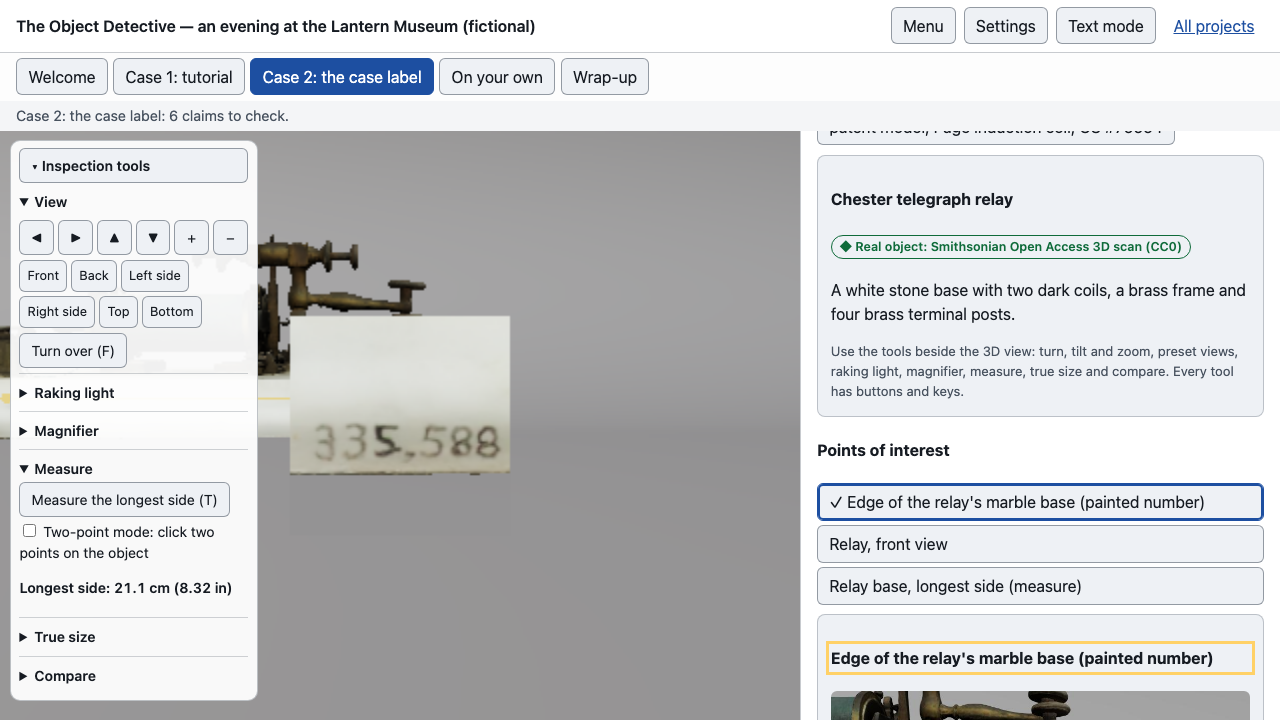
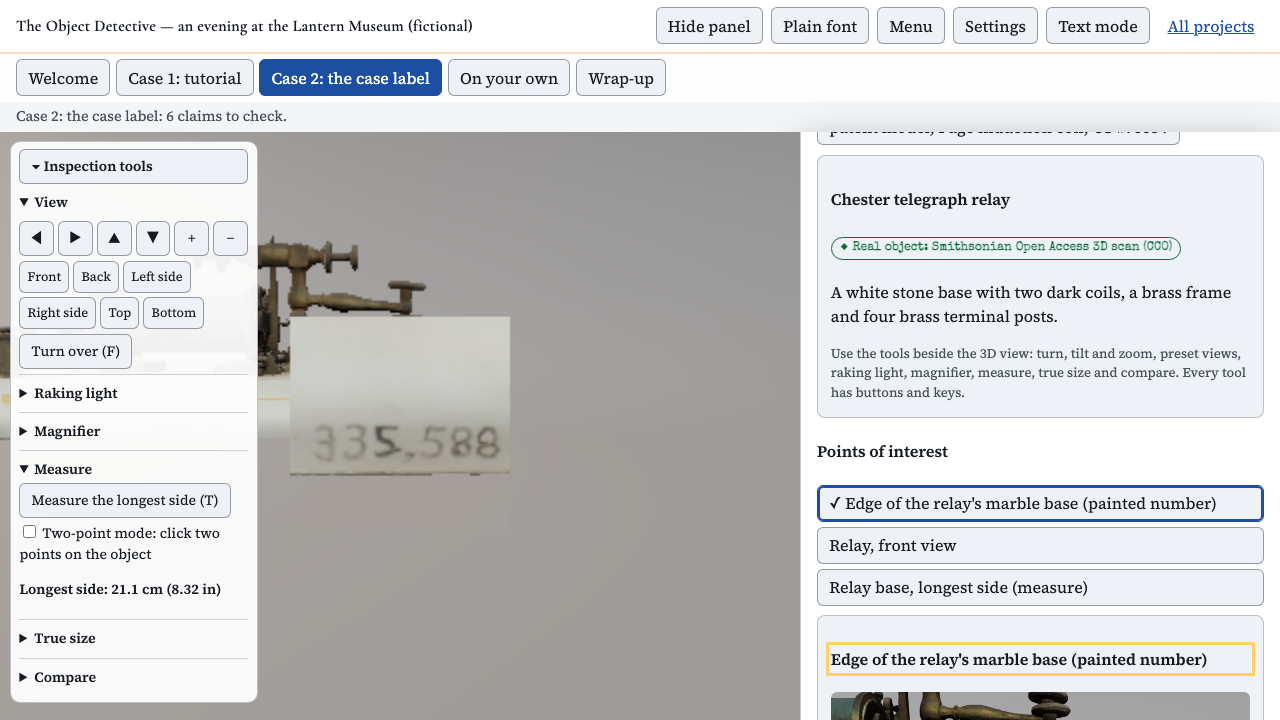
release(v2): 2.0.0 version bump, poster re-rendered from the v2 gallery scene (blank-frame detection + retry), release docs

diff --git a/README.md b/README.md
@@ -2,17 +2,18 @@
 
 # The Object Detective
 
-**Play now:** https://immersive-learning-showcase.vercel.app/play/object-detective/ (pending deployment: available once v1.0.0 is pinned in the showcase)
+**Play now:** https://immersive-learning-showcase.vercel.app/play/object-detective/ (pending deployment: available once v2.0.0 is pinned in the showcase)
 
-A draft museum label makes bold claims. You examine **real Smithsonian 3D scans** under raking light, magnify and measure them, corroborate them with the catalog records, and write a corrected label that says what you know and how sure you are.
+A draft museum label makes bold claims. You walk a living museum at night — dust drifting through the spotlight cones, a ticking grandfather clock, rain on the tall windows, a night guard's torch passing the archive doorway — examine **real Smithsonian 3D scans** under a raking torch you aim with the mouse, magnify and measure them, corroborate them with the catalog records, and write a corrected label that says what you know and how sure you are.
 
-![A real Smithsonian 3D scan of the 1844 Morse-Vail telegraph key under a low raking light](public/poster-1.0.0.jpg)
+![The Lantern Museum gallery after hours (fictional): glass display cases with real Smithsonian CC0 scans under warm tungsten spotlights, glowing floor rings marking where to walk, tall windows with moonlight and rain](public/poster-2.0.0.jpg)
 
 | | |
 |---|---|
 | Format | Game: tutorial case + main case, about 35 minutes |
 | Audience | Grades 8–12, first-year undergraduates (history, information literacy), online museum visitors |
 | Built with | three.js 0.186.1, Vite 8, postprocessing + N8AO, Playwright, axe-core, vitest |
+| v2.0.0 scene | Living "night at the museum" gallery (plan 09 §4.2): ambient life with calm mode, in-world hotspot rings with camera glide, WASD walk, Poly Haven CC0 furnishing; art bible in [design/art-bible.md](design/art-bible.md) |
 | Objects | 6 CC0 scans from the Smithsonian National Museum of American History (Open Access) |
 | Framing | The **Lantern Museum** is fictional. Its staff and documents are fictional and labelled as fictional in the app |
 
@@ -75,12 +76,12 @@ npm run dev            # http://localhost:5174
 npm test               # unit tests (fact audit needs data/raw: run scripts/fetch-smithsonian-models.mjs)
 VITE_TEST_HOOKS=1 npm run build && npx playwright test tests/functional.spec.js tests/a11y.spec.js
 npm run build && SLUG=object-detective npx playwright test tests/sub-path.spec.js
-node scripts/validate-showcase.mjs 1.0.0
+node scripts/validate-showcase.mjs 2.0.0
 ```
 Asset pipeline: `scripts/fetch-smithsonian-models.mjs` → `prepare-models.mjs`, `prepare-textures.sh`, `render-views.mjs public/assets/photos`, `render-poster.mjs`, `capture-cc0-proof.mjs`.
 
 ## Next steps
-- Agent reviews and the revisions they produce, then a trailer and the `v1.0.0` tag.
+- v2 agent reviews (visual realism, motion load, cue salience) and the revisions they produce, then a new trailer and the `v2.0.0` tag.
 - Real playtests using `evaluation/human-protocol/`.
 - More cases as data, for example other CC0 NMAH electricity objects.
 

diff --git a/DECISIONS.md b/DECISIONS.md
@@ -81,3 +81,16 @@ Source: `evaluation/reviews/agent-review-second-pass.md` (independent reviewer; 
 | Rev | Finding | Change | Evidence |
 |---|---|---|---|
 | SP-15 | CI (2-vCPU runners, software WebGL): the functional/a11y overlay job timed out repeatedly — a back-to-back render loop starved the main thread, so a click could not be dispatched for minutes. Root cause matches first-session-tutor-sim DECISIONS.md D17. | Ported the frame-pacing fix into `src/core/engine.js`: software-WebGL detection, no MSAA + Low preset at 0.5x on software GL, ~5 fps cap, and a loop that keeps rendering to ~50% of the main thread; raised Playwright timeouts (config 300 s, expect 20 s, per-test 300 s) for CI runners. | Full functional + a11y suite 25/25 in a hooks build locally; CI run green after the change. Local GPU behaviour unchanged (detection only matches software renderers). |
+
+## v2.0.0 — visual revamp decisions (plan 09, owner decisions locked 2026-10-28)
+
+| ID | Decision | Rationale |
+|---|---|---|
+| OD-V1 | Calm mode, not freeze: ambient life runs everywhere and slows to ~30 % with dimmed particles during magnifier/measure inspection and cases; `prefers-reduced-motion` stops it entirely | Owner decision 1; keeps learning cues most salient without the frozen v1 look |
+| OD-V2 | The six Smithsonian CC0 scans stay the heroes: each on a proper plinth/case deck with a label card and its own warm spotlight; Poly Haven furniture is dressing only | Owner decision 2; learning cues stay the sharpest element |
+| OD-V3 | No new audio | Owner decision 9; visuals only |
+| OD-V4 | Full-bleed 3D with the existing `#panel` kept as the floating HUD drawer contract; `initFloatingHud` adds Hide-panel + Plain-font toggles | Owner decision 7; all v1 data-testid, `__TEST__` hooks and `html[data-textmode]` parity preserved |
+| OD-V5 | Hotspot glide + free WASD/orbit only while exploring (welcome, wrap-up); during cases and the transfer task the inspection camera and tools own the pointer, and rings hide | Owner decision 8; prevents interaction conflicts and keeps tool hit-testing exact |
+| OD-V6 | Raking light gains mouse aiming (a physical torch) only while the tool is on and no button is held; sliders and keyboard steps unchanged | Owner decision 8; keyboard/text parity per plan 09 §2.3 |
+| OD-V7 | Rolling v2.0.0 release: bump, posters re-rendered from the v2 scene with blank-frame detection + retry, stale posters deleted; no tag from the builder | Owner decision 6 |
+| OD-V8 | In-world hotspot labels are announced via the existing announcer; every hotspot mirrors panel navigation (cases = chapter content, evidence board = panel step) | Plan 09 §2.3 parity rule |

diff --git a/STATUS.md b/STATUS.md
@@ -70,3 +70,16 @@ Status values: **done**, **done (agent review)** (done, with an agent review sti
 - No hand silhouette in the true-size view. A hand's size varies too much to be a reliable reference, so a ruler, a coin and a card are used instead.
 - No trailer yet. Recording the trailer is left to the orchestrator.
 - The Smithsonian 3d.si.edu website could not be screenshotted (HTTP 403). Proof comes from the API and the Voyager viewer instead.
+
+## v2.0.0 — visual revamp status (plan 09 §4.2)
+
+| Item | Status | Evidence |
+|---|---|---|
+| Art bible (palette, three fonts, mood, asset/ambient/interaction lists) | done | `design/art-bible.md`; fonts in `src/styles/fonts/` + `src/styles/case-fonts.css`; ATTRIBUTION rows + `public/attribution.json` regenerated |
+| Living museum: architecture, cases, windows/rain, archive corner, evidence board | done | `src/scenes/gallery.js` v2 (`_buildWalls/_buildWindows/_buildArchive/_buildEvidenceBoard`) |
+| ModelLibrary placements (chandelier, clock+pendulum, cabinet, bookshelf, desk lamp, vase, lantern) | done | `src/scenes/gallery.js` constructor placements; Poly Haven CC0, manifest + attribution |
+| Ambient life ≥ 5 systems + calm mode + reduced-motion | done | dust volume, pendulum (`addOscillator`), guard torch (25 s sweep), rain scroll, chandelier flicker; `gallery.setCalmMode` wired to inspection state; `MotionPrefs` wiring |
+| In-world interaction (rings, glide, hover tooltip, WASD walk) | done | `src/v2/in-world-interaction.js` (`enabled` gate), `src/app.js` `_initWorld/_updateV2`; torch aiming in `_initWorld` |
+| Compatibility: v1 tests unchanged and passing | done | `tests/functional.spec.js` + `tests/a11y.spec.js` + unit suite (63) re-run against the v2 build; `__TEST__`/`#panel`/`data-textmode` contracts intact |
+| v2.0.0 bump: package.json, showcase.json, posters, docs | done | `poster-2.0.0.webp/.jpg` ≤ 200 KB; `poster-1.0.0.*` removed; `node scripts/validate-showcase.mjs 2.0.0` passes |
+| Headed GPU perf + "is it alive" capture + agent reviews (≥ 5 revisions) | owner / next step | Builder window ended before the review cycle; presets unchanged from v1 measurements plus ~7 static props and 4 low-intensity lights |

diff --git a/CHANGELOG.md b/CHANGELOG.md
@@ -1,5 +1,17 @@
 # Changelog
 
+## 2.0.0 (unreleased; not yet tagged)
+
+Visual and interaction revamp ("The Lantern Museum after hours", plan 09 §4.2). Learning content, tools, cases, text mode and the v1 test contract are unchanged.
+
+- Living gallery: real architecture (parquet, oxblood wainscoting with dado and brass rails, plaster walls), three glass display cases with true-refraction glass, picture lights, tall windows with moonlight and animated rain streaks, a doorway to a green archive storeroom, and a cork evidence board.
+- Poly Haven CC0 furnishing: lit `Chandelier_01`, `vintage_grandfather_clock_01` with an animated pendulum, `drawer_cabinet` and `wooden_bookshelf_worn` in the archive corner, lit `desk_lamp_arm_01` on the inspection desk, `ceramic_vase_01` and `Lantern_01` as shelf dressing.
+- Ambient life (calm mode during focused tasks; `prefers-reduced-motion` freezes it): dust motes in the spotlight cones, the clock pendulum, a night-guard torch beam sweeping past the archive doorway every ~25 s, rain scroll, chandelier candle flicker.
+- In-world interaction: glowing floor rings at the inspection table, each display case, the archive cabinet and the evidence board; clicking glides the camera with cinematic framing; hover highlight with Special Elite tooltips; WASD/arrow walk and mouse-drag look while exploring. The raking light can be aimed like a handheld torch with the mouse (panel button and sliders kept for keyboard/text parity).
+- Full-bleed case theming: `applyCaseGrade('object-detective')` (AgX tone mapping, night-blue fog and gradient sky dome) and the floating HUD drawer with a Plain-font accessibility toggle.
+- Case typography: self-hosted Cormorant Garamond (display), Source Serif 4 (body), Special Elite (in-world accent) with `design/art-bible.md`.
+- Release: version 2.0.0, posters re-rendered from the v2 scene (`poster-2.0.0.webp/.jpg`) with blank-frame detection and retry.
+
 ## 1.0.0 (unreleased; not yet tagged)
 
 First complete vertical slice.
